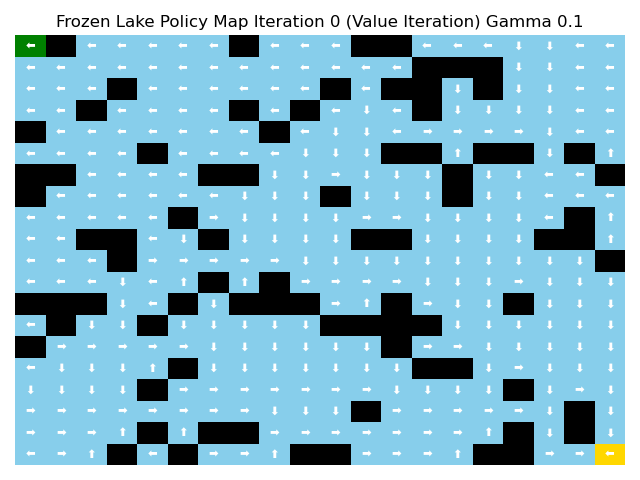
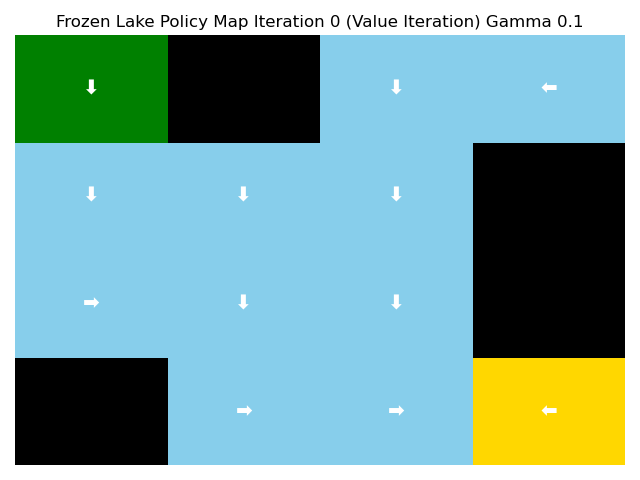
pr4 update 4 frozenlake4x4

diff --git a/pr4/frozen_lake.py b/pr4/frozen_lake.py
@@ -11,7 +11,7 @@ from planner import evaluate_policy, extract_policy, policy_iteration, value_ite
 def Frozen_Lake_Experiments():
 	# 0 = left; 1 = down; 2 = right;  3 = up
 	np.random.seed(42)
-	n = 20
+	n = 4
 	custom_frozen_lake = generate_random_map(size=n)
 	frozen_lake = gym.make("FrozenLake-v1", is_slippery=False, desc= custom_frozen_lake)
 	print(frozen_lake.observation_space)
@@ -122,7 +122,7 @@ def Frozen_Lake_Experiments():
 	iters_averages_array = []
 	time_array = []
 	Q_array = []
-	for epsilon in [0.1, 0.3, 0.5, 0.7, 0.9]:
+	for epsilon in [0.0, 0.2, 0.4, 0.8, 1.0]:
 		Q = np.zeros((env.observation_space.n, env.action_space.n))
 		rewards = []
 		iters = []
